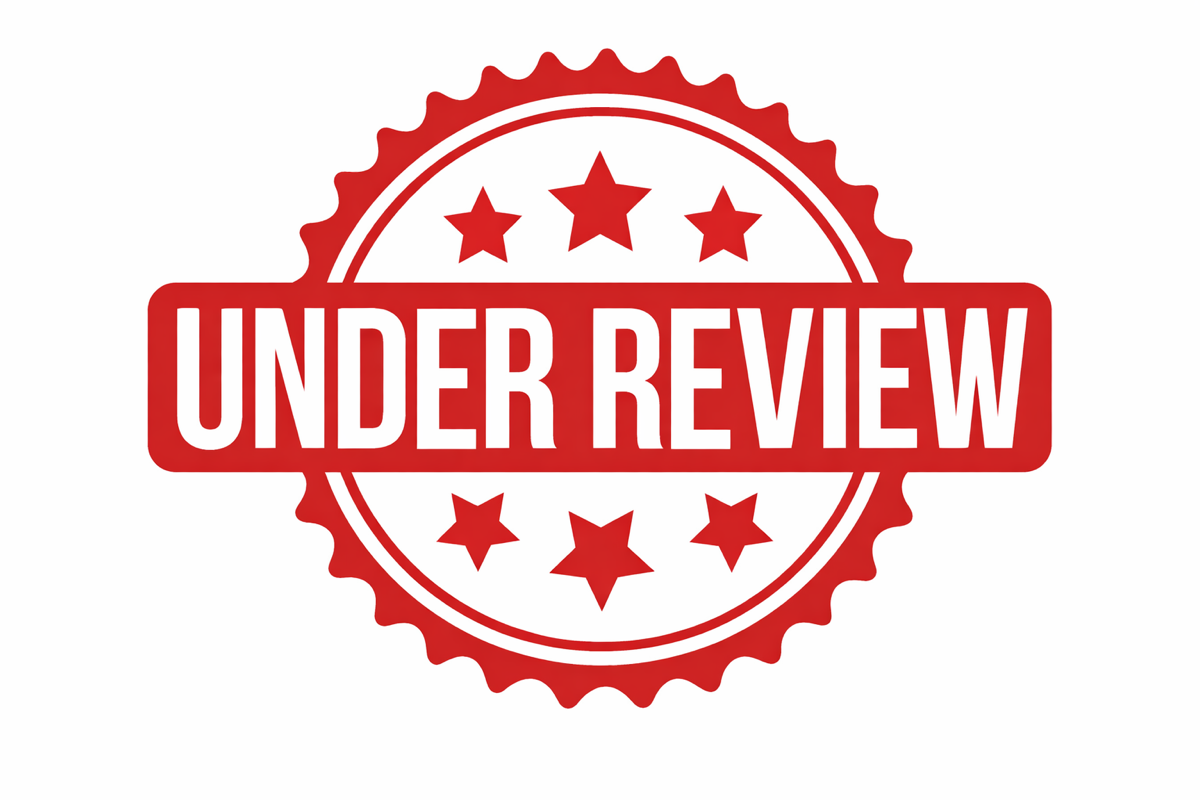
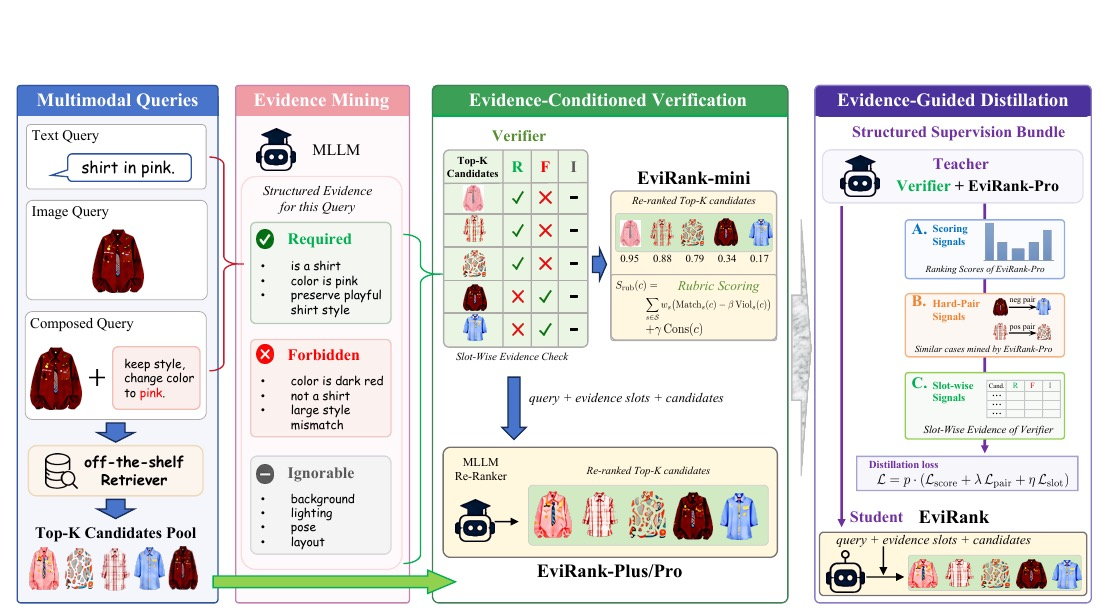
Add EMNLP 2026 publication updates

diff --git a/content/publication/004_EviRank/index.md b/content/publication/004_EviRank/index.md
@@ -1,21 +1,23 @@
 ---
-title: "Structure Evidence Mining for Image Retrieval"
+title: "EviRank: Structured Relevance Evidence for Multimodal Image Re-ranking"
 authors:
   - admin
-  - ...
-  - ...
+  - Siyi Liu
+  - Zirong Chen
+  - Xinyu Zuo
+  - Jinwen Luo
+  - Ruiwen Tao
+  - Lisheng Duan
+  - Haijin Liang
+  - Jin Ma
+  - Junfu Pu
+  - Yongqi Zhang
 
-
-
-# Author notes (optional)
-author_notes:
-  - ''
-  - 'Corresponding Author'
-date: '2026-02-08'
+date: '2026-08-21T12:00:00+08:00'
 doi: ''
 
 # Schedule page publish date (NOT publication's date).
-publishDate: '2026-02-08'
+publishDate: '2026-08-21'
 
 # Publication type.
 # Accepts a single type but formatted as a YAML list (for Hugo requirements).
@@ -23,17 +25,19 @@ publishDate: '2026-02-08'
 publication_types: ["conference"]
 
 # Publication name and optional abbreviated publication name.
-publication: ""
-publication_short: "Under Review" 
+publication: "EMNLP 2026 Main Conference"
+publication_short: "**EMNLP 2026 Main Conference**"
 
 abstract: ''
+summary: "Accepted to the EMNLP 2026 Main Conference. EviRank uses structured relevance evidence for multimodal image re-ranking."
 
 # Summary. An optional shortened abstract.
 #summary: Lorem ipsum dolor sit amet, consectetur adipiscing elit. Duis posuere tellus ac convallis placerat. Proin tincidunt magna sed ex sollicitudin condimentum.
 
 tags:
+  - Multimodal Retrieval
   - Multimodal LLM
-  - RAG
+  - Re-ranking
 
 featured: true
 
@@ -44,7 +48,7 @@ url_pdf: ''
 url_code: ''
 url_dataset: ''
 url_poster: ''
-url_project: ''
+url_project: '/blog/evirank/'
 url_slides: ''
 url_source: ''
 url_video: ''
@@ -74,4 +78,3 @@ slides: ""
 {{% callout note %}}
 Click the *Cite* button above to demo the feature to enable visitors to import publication metadata into their reference management software.
 {{% /callout %}}
-

diff --git a/content/publication/509_SnapBench/index.md b/content/publication/509_SnapBench/index.md
@@ -1,0 +1,48 @@
+---
+title: "SnapBench: Benchmarking Snap-and-Ask Multimodal Retrieval for Mobile Interactions"
+authors:
+  - Zirong Chen
+  - Fuda Ye
+  - Kuan Zhang
+  - admin
+  - Junfu Pu
+  - Xinlei Wang
+  - Xinyu Zuo
+  - Lisheng Duan
+  - Jin Ma
+  - Yongqi Zhang
+
+date: '2026-08-21T10:00:00+08:00'
+publishDate: '2026-08-21'
+doi: ''
+
+publication_types: ["conference"]
+publication: "Findings of EMNLP 2026"
+publication_short: "**Findings of EMNLP 2026**"
+
+abstract: ''
+summary: "Accepted to Findings of EMNLP 2026. SnapBench benchmarks snap-and-ask multimodal retrieval for mobile interactions."
+
+tags:
+  - Multimodal Retrieval
+  - Mobile Interaction
+
+featured: true
+
+url_pdf: ''
+url_code: ''
+url_dataset: ''
+url_poster: ''
+url_project: ''
+url_slides: ''
+url_source: ''
+url_video: ''
+
+image:
+  caption: ''
+  focal_point: ""
+  preview_only: false
+
+projects: []
+slides: ""
+---

diff --git a/content/publication/510_RePair/index.md b/content/publication/510_RePair/index.md
@@ -1,0 +1,47 @@
+---
+title: "RePair: Turning Retrieval Failures into Counterfactual Hard Pairs"
+authors:
+  - Siyi Liu
+  - Xiaorong Zhu
+  - admin
+  - Xinyu Zuo
+  - Lisheng Duan
+  - Haijin Liang
+  - Jin Ma
+  - Junfu Pu
+  - Yongqi Zhang
+
+date: '2026-08-21T11:00:00+08:00'
+publishDate: '2026-08-21'
+doi: ''
+
+publication_types: ["conference"]
+publication: "EMNLP 2026 Main Conference"
+publication_short: "**EMNLP 2026 Main Conference**"
+
+abstract: ''
+summary: "Accepted to the EMNLP 2026 Main Conference. RePair turns retrieval failures into counterfactual hard pairs."
+
+tags:
+  - Multimodal Retrieval
+  - Hard Negative Mining
+
+featured: true
+
+url_pdf: ''
+url_code: ''
+url_dataset: ''
+url_poster: ''
+url_project: ''
+url_slides: ''
+url_source: ''
+url_video: ''
+
+image:
+  caption: ''
+  focal_point: ""
+  preview_only: false
+
+projects: []
+slides: ""
+---

diff --git a/content/blog/EviRank/index.md b/content/blog/EviRank/index.md
@@ -5,7 +5,7 @@ type: blog
 
 paper_name: "EviRank"
 paper_subtitle: "Structured Relevance Evidence for Multimodal Image Re-ranking"
-venue: "Under Review"
+venue: "EMNLP 2026 Main Conference"
 tags:
   - LLM
   - Multimodal AI
@@ -13,7 +13,7 @@ tags:
 accent: "#16a34a"
 accent_soft: "#f0fdf4"
 
-author_line: "**Enjun Du** et al."
+author_line: "**Enjun Du**, Siyi Liu, Zirong Chen, Xinyu Zuo, Jinwen Luo, Ruiwen Tao, Lisheng Duan, Haijin Liang, Jin Ma, Junfu Pu, Yongqi Zhang"
 
 links:
   code: "https://github.com/EnjunDu/EviRank"
